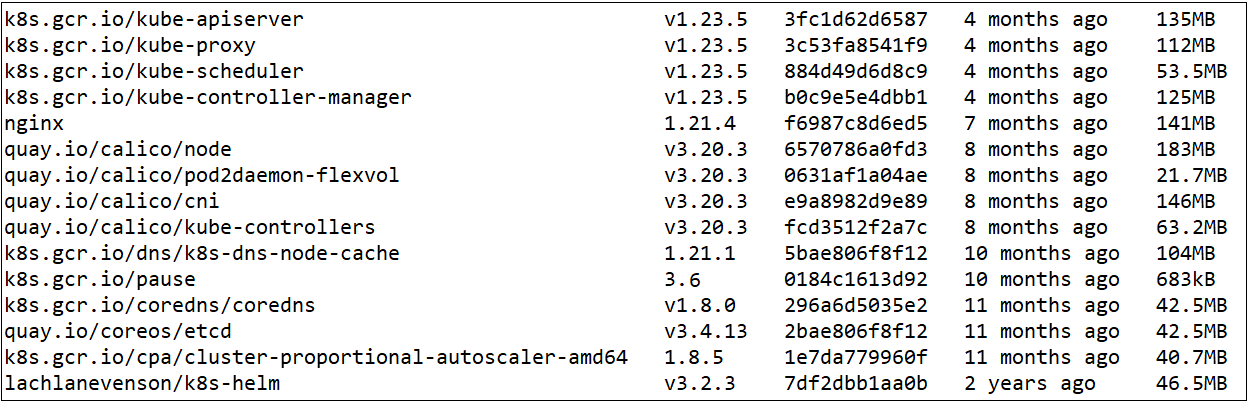
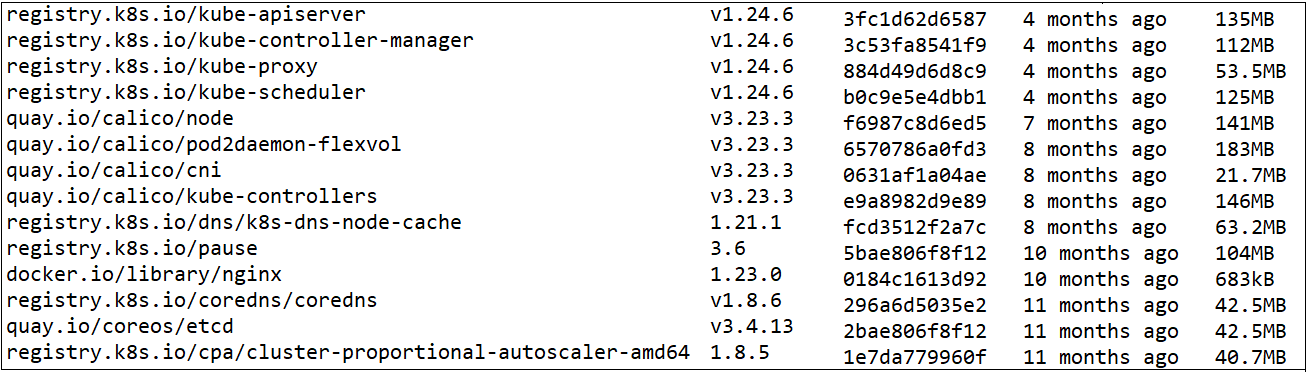
updated K8S image names and versions in sample output image and the document

Changed region(s): [[0.0, 0.0, 0.9992, 1.0]]

diff --git a/README.md b/README.md
@@ -146,7 +146,7 @@ To deploy Resource Aggregator for ODIM, you will require:
   Each controller node has the following components:
 
   -   An underlying Ubuntu OS platform
-  -   The Docker container engine
+  -   The containerd container engine
   -   The resource aggregator and the plugin microservice pods
   -   The infrastructure pods containing all the third-party services
   -   Kubelet, Kubeproxy, and the Kubernetes control plane comprising the API server, Scheduler, and the Controller-Manager
@@ -373,24 +373,24 @@ The following table lists the software components and versions that are compatib
    docker pull <imagename>:<version>
    ```
    
-   Example: `docker pull quay.io/calico/cni:v3.20.3`
+   Example: `docker pull quay.io/calico/cni:v3.23.3`
    
    The following table lists the Docker images of all the Kubernetes microservices.
    
    |Docker image name|Version|Docker image file name|
    |-----|----|-----|
-   |k8s.gcr.io/kube-apiserver|v1.23.5 |k8s.gcr.io_kube-apiserver.tar |
-   |k8s.gcr.io/kube-controller-manager|v1.23.5 |k8s.gcr.io_kube-controller-manager.tar |
-   |k8s.gcr.io/kube-proxy| v1.23.5 |k8s.gcr.io_kube-proxy.tar |
-   |k8s.gcr.io/kube-scheduler| v1.23.5 |k8s.gcr.io_kube-scheduler.tar |
-   |quay.io/calico/node| v3.20.3 |quay.io_calico_node.tar |
-   |quay.io/calico/pod2daemon-flexvol| v3.20.3 |quay.io_calico_pod2daemon-flexvol.tar |
-   |quay.io/calico/cni| v3.20.3 |quay.io_calico_cni.tar |
-   |quay.io/calico/kube-controllers| v3.20.3 |quay.io_calico_kube-controllers.tar |
+   |k8s.gcr.io/kube-apiserver|v1.24.6 |k8s.gcr.io_kube-apiserver.tar |
+   |k8s.gcr.io/kube-controller-manager|v1.24.6 |k8s.gcr.io_kube-controller-manager.tar |
+   |k8s.gcr.io/kube-proxy| v1.24.6 |k8s.gcr.io_kube-proxy.tar |
+   |k8s.gcr.io/kube-scheduler| v1.24.6 |k8s.gcr.io_kube-scheduler.tar |
+   |quay.io/calico/node| v3.23.3 |quay.io_calico_node.tar |
+   |quay.io/calico/pod2daemon-flexvol| v3.23.3 |quay.io_calico_pod2daemon-flexvol.tar |
+   |quay.io/calico/cni| v3.23.3 |quay.io_calico_cni.tar |
+   |quay.io/calico/kube-controllers| v3.23.3 |quay.io_calico_kube-controllers.tar |
    |k8s.gcr.io/dns/k8s-dns-node-cache|1.21.1 |k8s.gcr.io_dns_k8s-dns-node-cache.tar |
    |k8s.gcr.io/pause|3.6 |k8s.gcr.io_pause.tar |
-   |nginx|1.21.4 |nginx.tar |
-   |k8s.gcr.io/coredns/coredns|v1.8.0 |k8s.gcr.io_coredns_coredns.tar |
+   |nginx|1.23.0 |nginx.tar |
+   |k8s.gcr.io/coredns/coredns|v1.8.6 |k8s.gcr.io_coredns_coredns.tar |
    |quay.io/coreos/etcd|v3.4.13 |quay.io_coreos_etcd.tar |
    |k8s.gcr.io/cpa/cluster-proportional-autoscaler-amd64|1.8.5 |k8s.gcr.io_cpa_cluster-proportional-autoscaler-amd64.tar |
    | lachlanevenson/k8s-helm                              |v3.2.3 |lachlanevenson_k8s-helm.tar |
